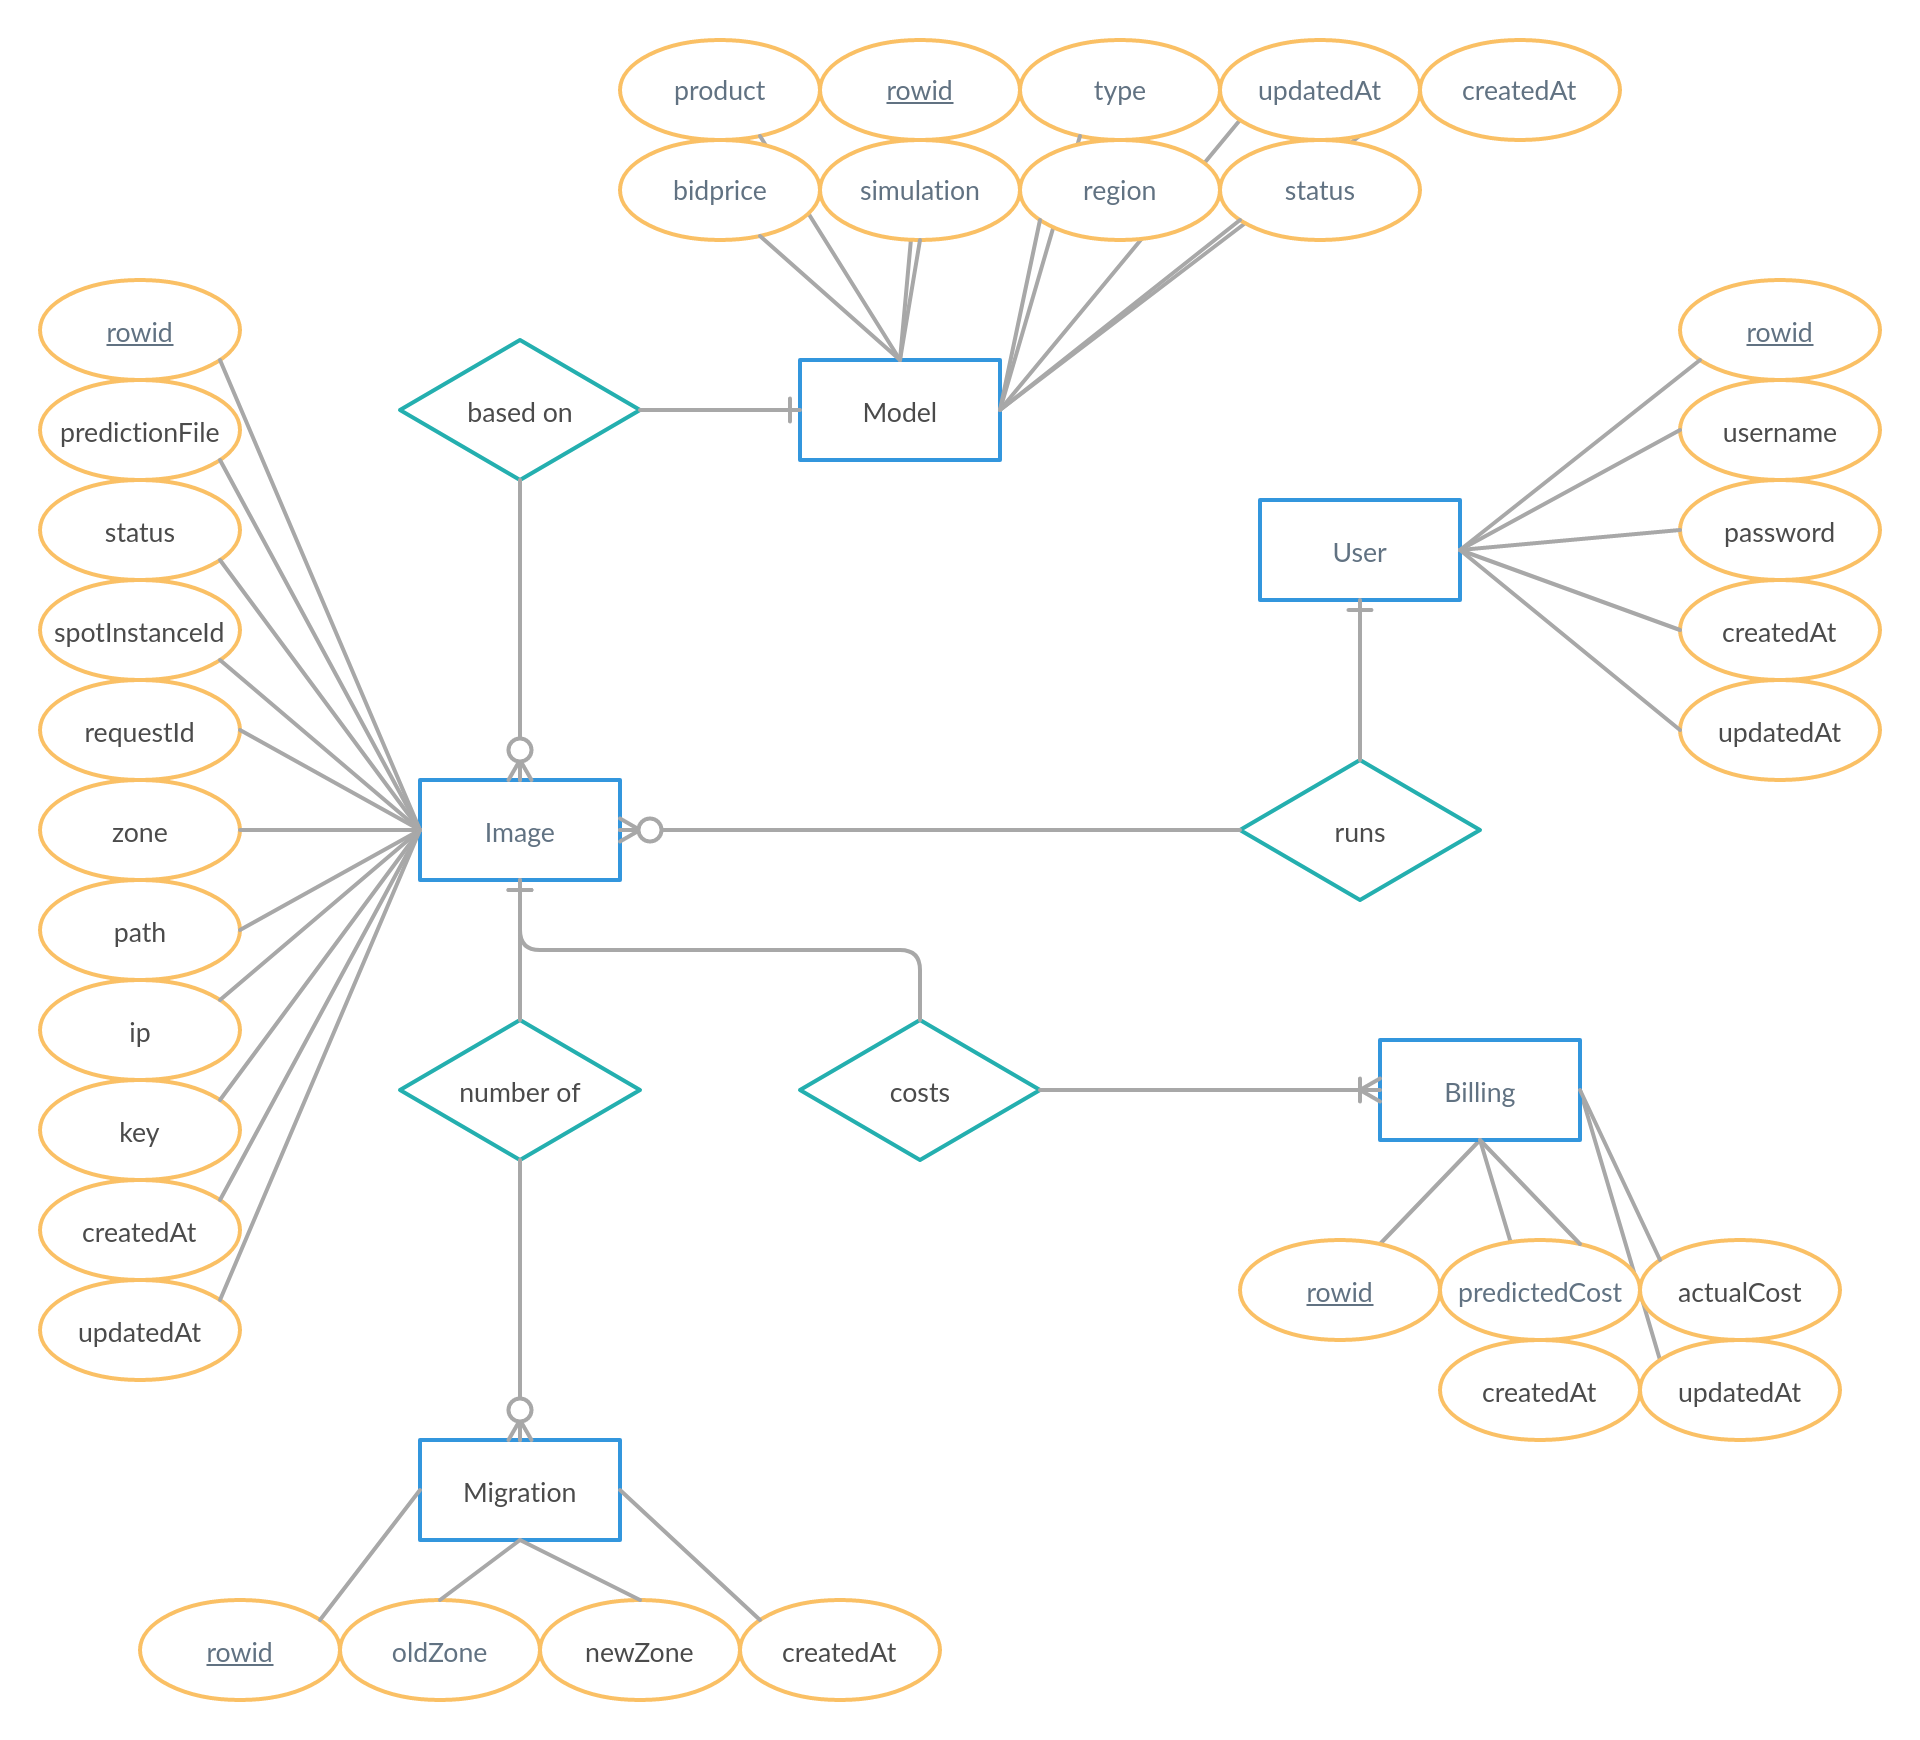
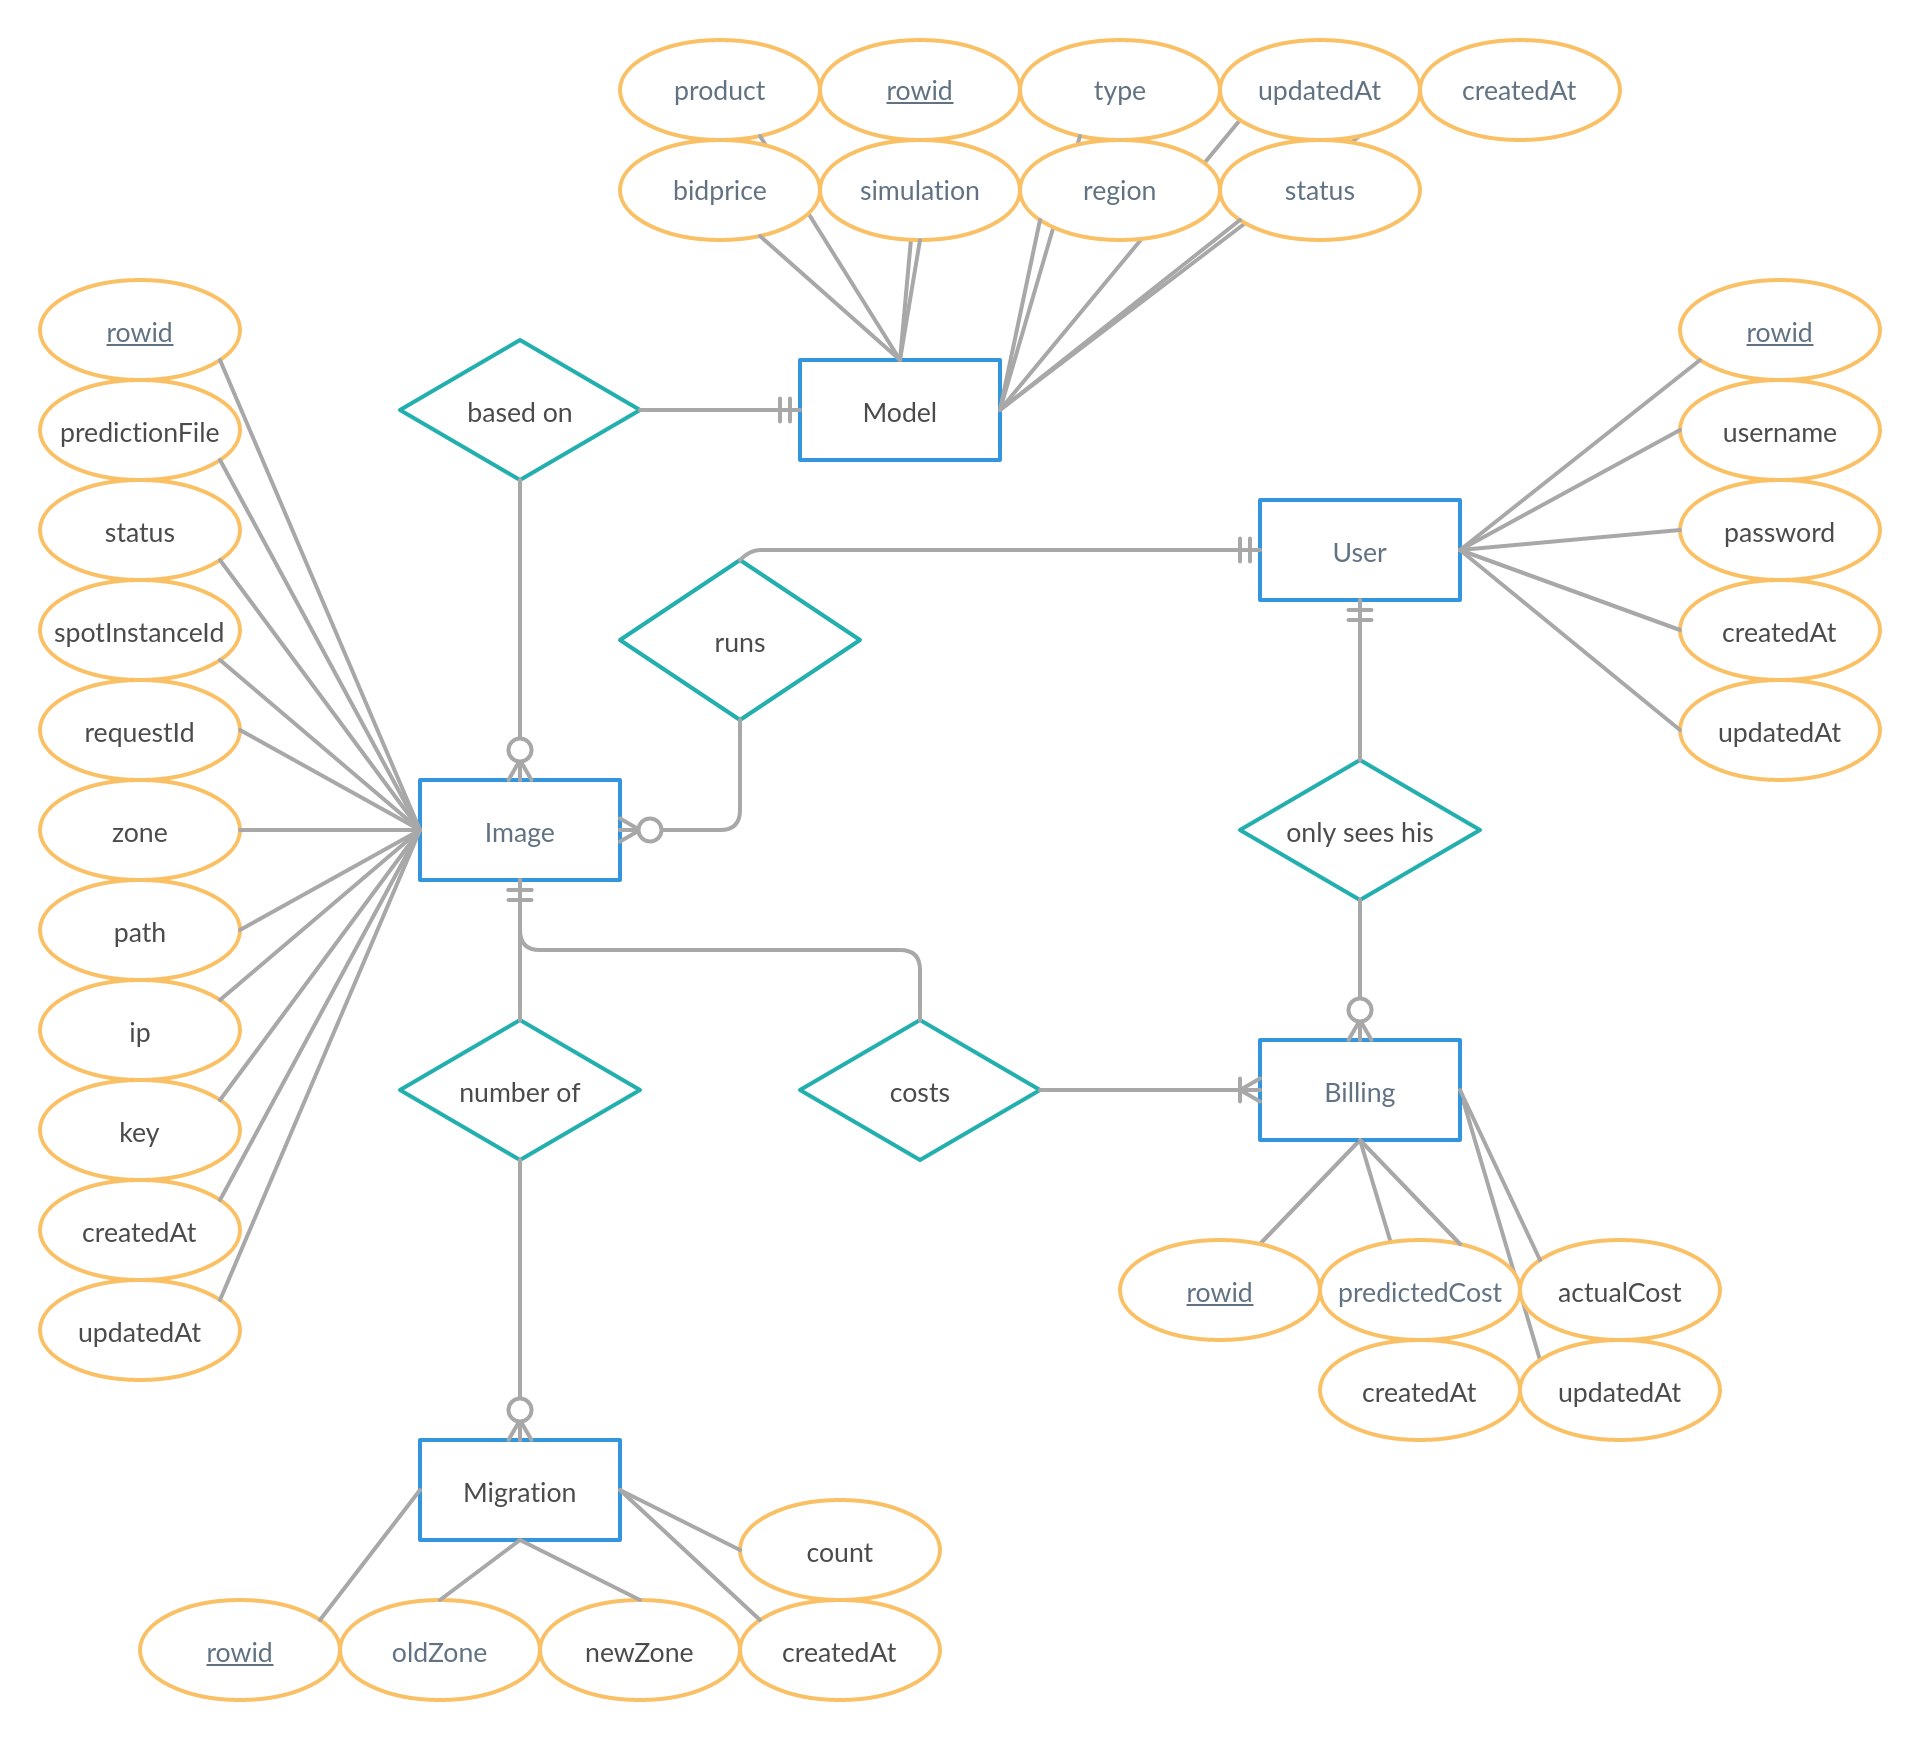
update

diff --git a/backend/utils/migrationHelper.js b/backend/utils/migrationHelper.js
@@ -47,15 +47,36 @@ const requestAndSetupInstance = async(model, image, zone) => {
   return true
 }
 
-const setScheduler = async (image, model, user) => {
+const setScheduler = async (image, model, user, flag) => {
 
-  const db = await databaseHelper.openDatabase()
-  const newImage = await databaseHelper.selectById(db, parameters.imageTableValues, parameters.imageTableName, image.rowid)
-  await databaseHelper.insertRow(db, parameters.migrationTableName, `(null, ?, ?, ?, ?, ?, ?)`, [newImage.zone, null, newImage.spotInstanceId, newImage.rowid, Date.now(), Date.now()])
+  let newImage = null
+  if(flag){
+    const db = await databaseHelper.openDatabase()
+    newImage = await databaseHelper.selectById(db, parameters.imageTableValues, parameters.imageTableName, image.rowid)
+    await databaseHelper.insertRow(db, parameters.migrationTableName, `(null, ?, ?, ?, ?, ?, ?,  ?)`, [newImage.zone, null, 1, newImage.spotInstanceId, newImage.rowid, Date.now(), Date.now()])
+    await databaseHelper.closeDatabase(db)
+  }
   let hour = timeHelper.getMigrationHour(Date.now())
   let minutes = timeHelper.getMigrationMinutes(Date.now())
-  scheduler.setMigrationScheduler(`${minutes} ${hour} * * *`, model, newImage, user)
-  await databaseHelper.closeDatabase(db)
+  scheduler.setMigrationScheduler(`${minutes} ${hour} * * *`, model, newImage === null ? image : newImage, user)
+
+}
+
+const setSchedulerAgain = async (image, model, user, time) => {
+
+  let hour = timeHelper.getMigrationHour(time)
+  let minutes = timeHelper.getMigrationMinutes(time)
+
+  let hoursToMs = parameters.migrationHour * 3600 * 1000
+  let minToMs = parameters.migrationMinutes * 60 * 1000
+  console.log(Date.now(), (time+hoursToMs+minToMs))
+  if(Date.now() > (time+hoursToMs+minToMs)){
+    console.log(`ChangeSchedulerHelper: Set new scheduler time for ${image.rowid}`)
+    scheduler.setMigrationScheduler(`${new Date(Date.now()).getMinutes()+2} ${new Date(Date.now()).getHours()} * * *`, model, image, user)
+  }else{
+    console.log(`ChangeSchedulerHelper: Set old scheduler time for ${image.rowid}`)
+    scheduler.setMigrationScheduler(`${minutes} ${hour} * * *`, model, image, user)
+  }
 
 }
 
@@ -64,7 +85,7 @@ const newInstance = async (model, image, user) => {
   const zone = await getPrediction(model, image, user)
   if(zone !== image.zone){
     const flag = await requestAndSetupInstance(model, image, zone)
-    await setScheduler(image, model, user)
+    await setScheduler(image, model, user, true)
     if(flag && tmp.zone){
       const db = await databaseHelper.openDatabase()
       const migrationRows = await databaseHelper.selectByValue(db, parameters.migrationTableValues, parameters.migrationTableName, 'oldSpotInstanceId', tmp.spotInstanceId)
@@ -80,10 +101,10 @@ const newInstance = async (model, image, user) => {
     const imageRow = await databaseHelper.selectById(db, parameters.imageTableValues, parameters.imageTableName, image.rowid)
     const migrationRows = await databaseHelper.selectByValue(db, parameters.migrationTableValues, parameters.migrationTableName, 'oldSpotInstanceId', imageRow.spotInstanceId)
     await migrationRows.map(async row => {
-      await databaseHelper.updateById(db, parameters.migrationTableName, 'newZone = ?, updatedAt = ?', [zone, Date.now(), row.rowid])
+      await databaseHelper.updateById(db, parameters.migrationTableName, 'count = ?, updatedAt = ?', [row.count+1, Date.now(), row.rowid])
     })
     await databaseHelper.closeDatabase(db)
-    await setScheduler(image, model, user)
+    await setScheduler(image, model, user, false)
   }
 
 }
@@ -109,5 +130,6 @@ module.exports = {
   startInstance, 
   setupServer, 
   getPrediction, 
-  terminateInstance 
+  terminateInstance,
+  setSchedulerAgain 
 }

diff --git a/backend/app.js b/backend/app.js
@@ -13,7 +13,8 @@ const databaseHelper = require('./utils/databaseHelper')
 const scheduler = require('./utils/scheduler')
 const auth = require('./middleware/authentication')
 const fs = require('fs')
-
+const migrationHelper = require('./utils/migrationHelper')
+const parameters = require('./parameters')
 
 const credentialsChecker = async () => {
   
@@ -25,9 +26,26 @@ const credentialsChecker = async () => {
     process.exit(1)
   }
 }
+
+
+const checkMigrationStatus = async () => {
+
+  const db = await databaseHelper.openDatabase()
+  const migrationRows = await databaseHelper.selectIsNull(db, parameters.migrationTableValues, parameters.migrationTableName, 'newZone')
+  await migrationRows.map(async migRow => {
+    const imageRow = await databaseHelper.selectById(db, parameters.imageTableValues, parameters.imageTableName, migRow.imageId)
+    const modelRow = await databaseHelper.selectById(db, parameters.modelTableValues, parameters.modelTableName, imageRow.modelId)
+    const userRow = await databaseHelper.selectById(db, parameters.userTableValues, parameters.userTableName, imageRow.userId)
+    await migrationHelper.setSchedulerAgain(imageRow, modelRow, userRow, migRow.createdAt)
+  })
+  console.log(`MigrationStatusHelper: Set ${migrationRows.length} open schedulers`)
+  await databaseHelper.closeDatabase(db)
+}
+
+
 credentialsChecker()
 databaseHelper.checkDatabase()
-scheduler.scheduleCollectSpotPrices
+//scheduler.scheduleCollectSpotPrices
 app.use(express.static('build'))
 app.use(cors())
 app.use(bodyparser.json())
@@ -39,5 +57,6 @@ app.use('/api/login', loginRouter)
 app.use('/api/registration', registrationRouter)
 app.use('/api/billing', billingRouter)
 app.use('/api/user', userRouter)
+checkMigrationStatus()
 
 module.exports = app

diff --git a/backend/utils/scheduler.js b/backend/utils/scheduler.js
@@ -11,11 +11,22 @@ const scheduleCollectSpotPrices = schedule.scheduleJob('23 11 * * *', () => {
 
 const setMigrationScheduler = (time, model, image, user) => {
   
+  console.log(`MigrationSchedulerHelper: Set scheduler at ${time} for ${image.rowid}`)
   schedule.scheduleJob(time, async () => {
     const migrationHelper = require('./migrationHelper')
+    const databaseHelper = require('./databaseHelper')
+    const parameters = require('../parameters')
 
-    console.log(`MigrationSchedulerHelper: Start with evaluation of image ${image.rowid}`)
-    await migrationHelper.newInstance(model, image, user)
+    const db = await databaseHelper.openDatabase()
+    const imageRow = await databaseHelper.selectById(db, parameters.imageTableValues, parameters.imageTableName, image.rowid)
+    await databaseHelper.closeDatabase(db)
+    if(imageRow !== null){
+      console.log(`MigrationSchedulerHelper: Start with evaluation of image ${image.rowid}`)
+      await migrationHelper.newInstance(model, image, user)
+    }else{
+      console.log(`MigrationSchedulerHelper: Evaluation cancelled because ${image.rowid} does not exist anymore`)
+
+    }    
   })
 }
 

diff --git a/backend/parameters.js b/backend/parameters.js
@@ -19,7 +19,7 @@ const modelTableValues = 'rowid, type, product, bidprice, region, simulation, st
 const imageTableValues = 'rowid, predictionFile, userId, status, modelId, spotInstanceId, requestId, zone, path, ip, key, createdAt, updatedAt'
 const userTableValues = 'rowid, username, password, createdAt, updatedAt'
 const billingTableValues = 'rowid, predictedCost, actualCost, imageId, userid, createdAt, updatedAt'
-const migrationTableValues = 'rowid, oldZone, newZone, oldSpotInstanceId, imageId, createdAt, updatedAt'
+const migrationTableValues = 'rowid, oldZone, newZone, count, oldSpotInstanceId, imageId, createdAt, updatedAt'
 
 const mlTrainFile = '/home/walder/workspace/automatic_migration/backend/ml_model/train_ml_model.py'
 const mlDeleteFile = '/home/walder/workspace/automatic_migration/backend/ml_model/delete_ml_model.py'
@@ -40,7 +40,7 @@ const workDir = __dirname
 const waitForInstanceId = 10
 
 const migrationHour = 0
-const migrationMinutes = 2
+const migrationMinutes = 5
 
 module.exports = { 
     migrationMinutes,

diff --git a/backend/utils/databaseHelper.js b/backend/utils/databaseHelper.js
@@ -135,6 +135,26 @@ const selectByUserId = async(db, tableValues, tableName, id) => {
 
 }
 
+const selectIsNull = async(db, tableValues, tableName, value) => {
+  let responseArray = []
+
+  return await new Promise((resolve) => {
+    db.serialize(async () => {
+      db.all(`SELECT ${tableValues} FROM ${tableName} WHERE ${value} is NULL`, (err, rows) => {
+        if(rows === undefined){
+          resolve(responseArray)
+        }else{
+          rows.map(row =>{
+            responseArray = responseArray.concat(row)
+          })
+          resolve(responseArray)
+        }
+      })
+    })
+  })
+
+}
+
 
 const selectByValue = async(db, tableValues, tableName, value, param) => {
   let responseArray = []
@@ -226,5 +246,6 @@ module.exports = {
   createTable, 
   deleteRowById, 
   selectById, 
-  deleteRowsByValue 
+  deleteRowsByValue,
+  selectIsNull 
 }

diff --git a/backend/models/migration.js b/backend/models/migration.js
@@ -4,6 +4,7 @@ const migrationModel = `
   rowid INTEGER PRIMARY KEY AUTOINCREMENT,
   oldZone TEXT NOT NULL, 
   newZone TEXT, 
+  count INTEGER,
   oldSpotInstanceId TEXT,
   imageId INTEGER NOT NULL,
   createdAt INTEGER, 
